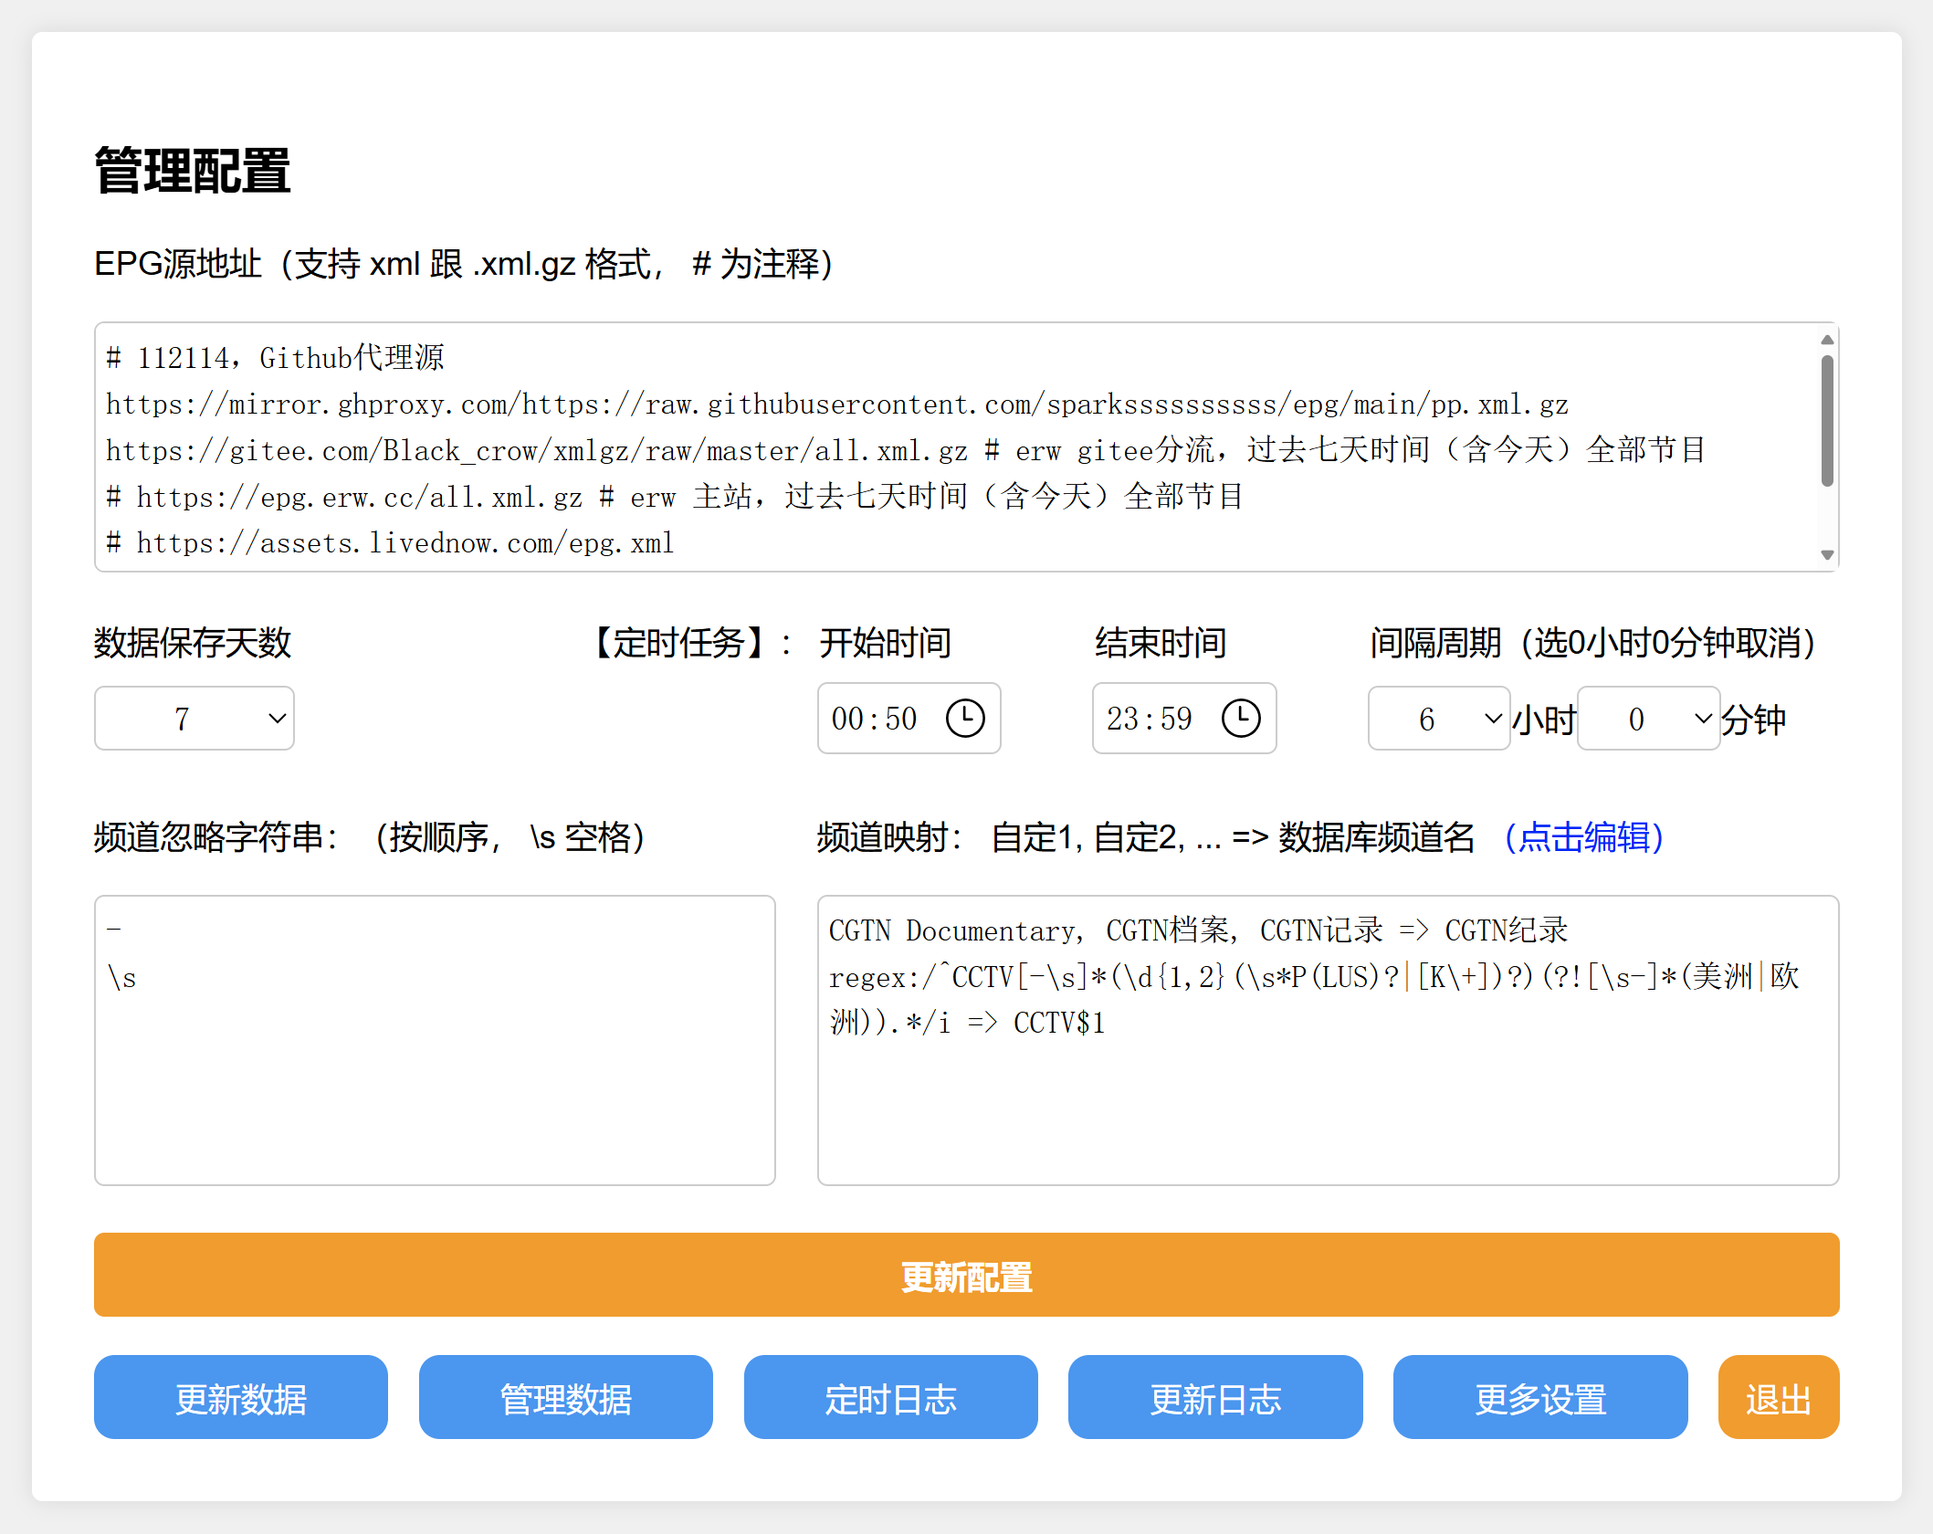
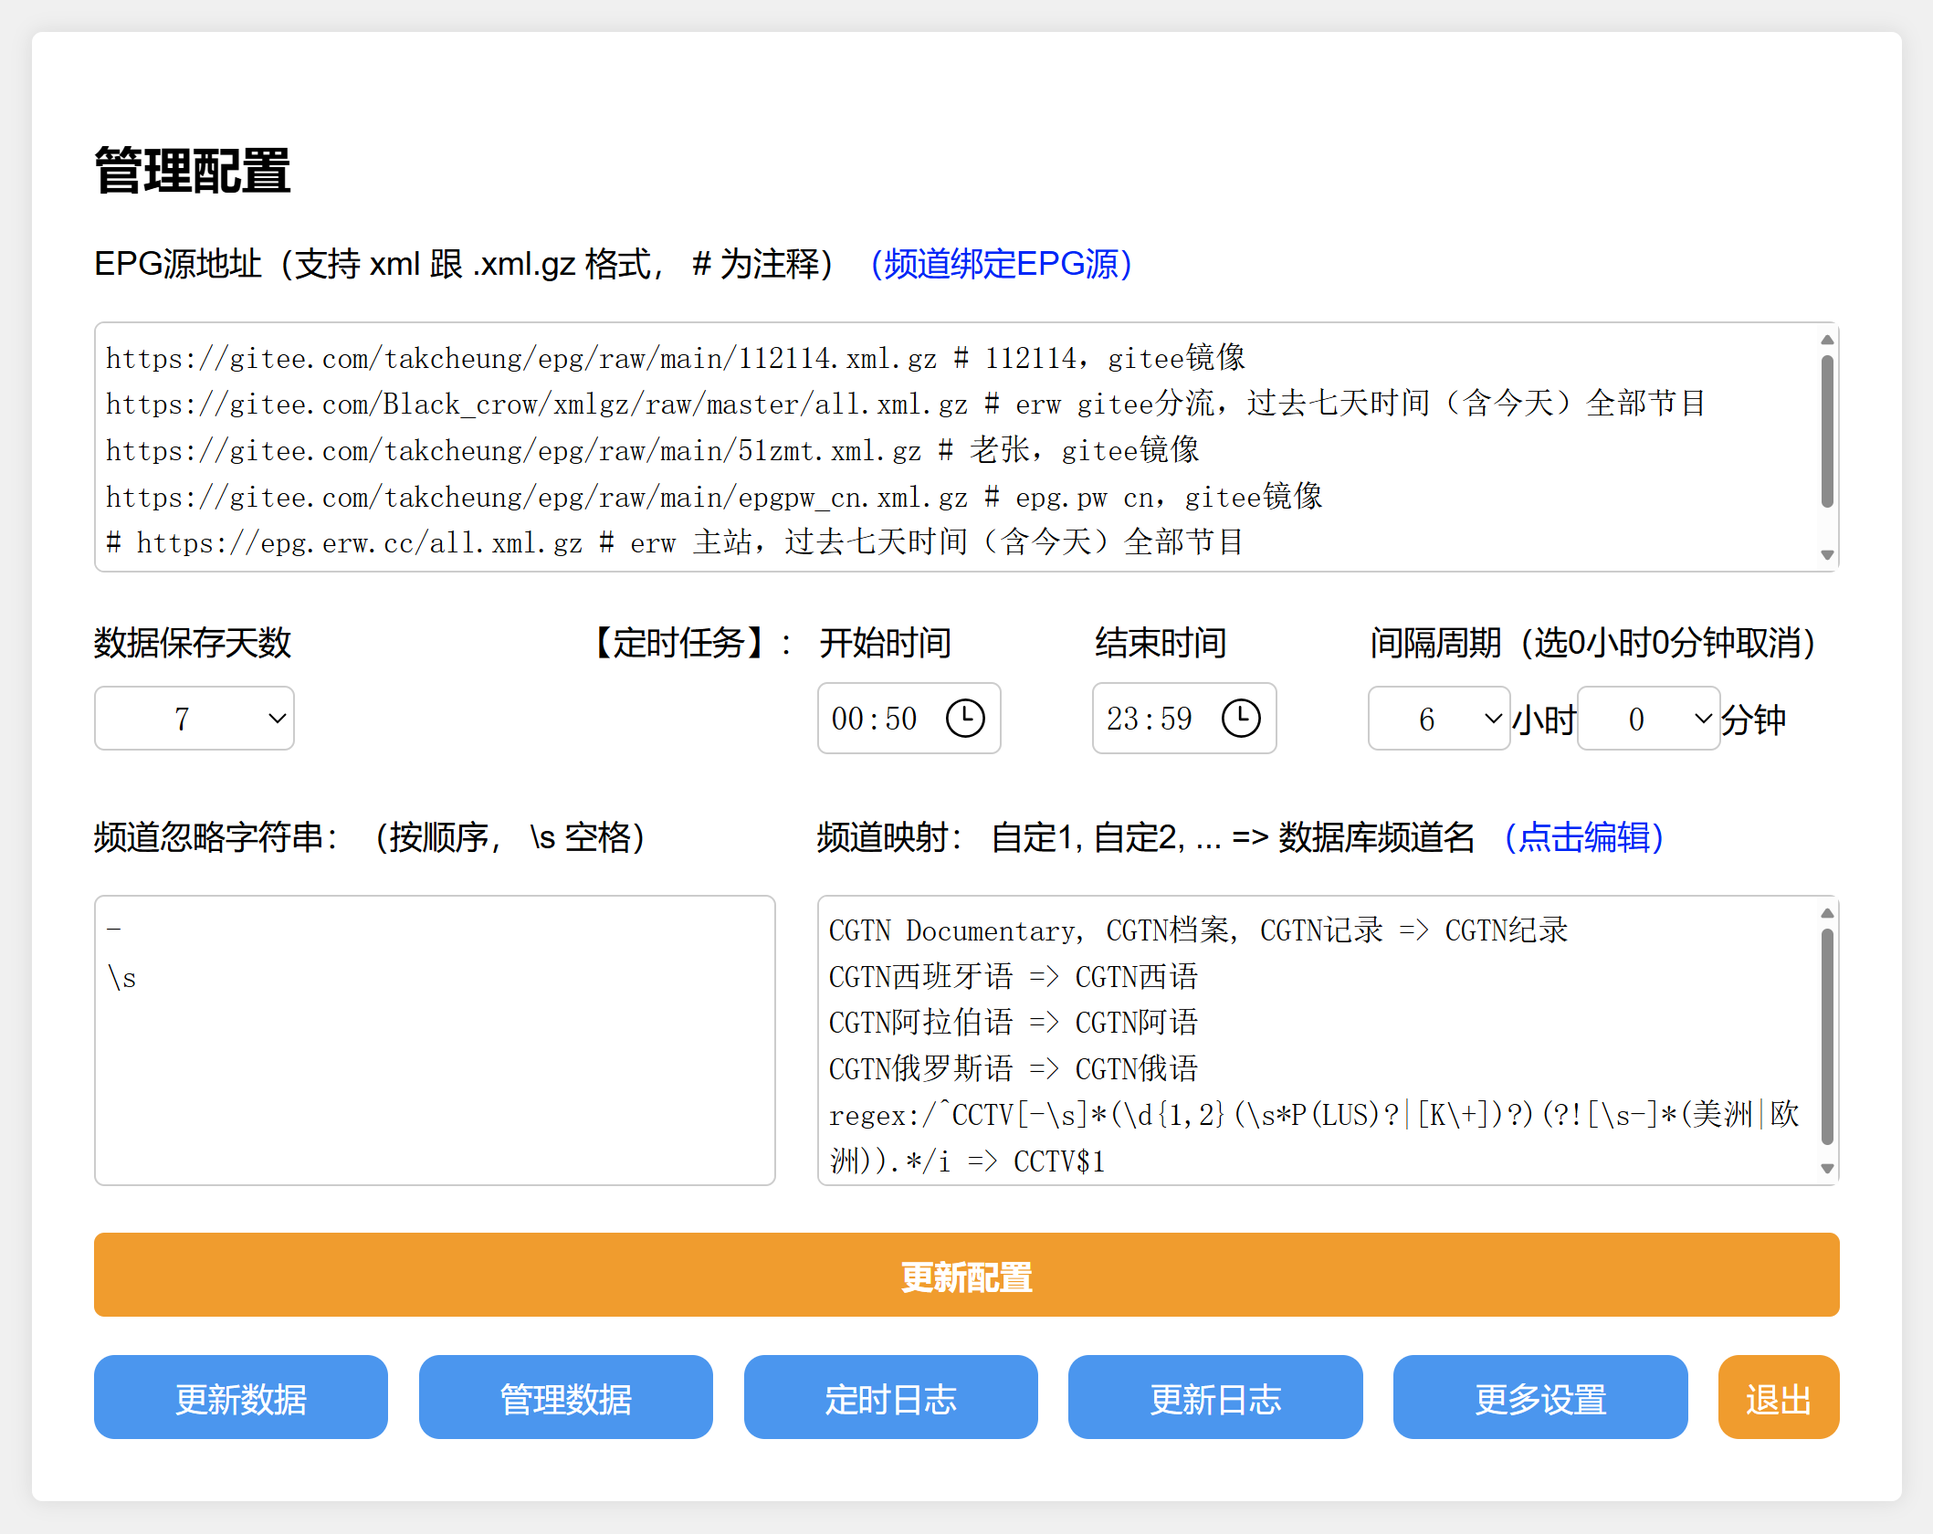
新增：频道绑定EPG源，管理页面数据预加载

diff --git a/epg/css/manage.css b/epg/css/manage.css
@@ -182,8 +182,12 @@ input[type="text"] {
     width: 200px;
     height: auto;
 }
+.channel-bind-epg-modal-content {
+    width: 600px;
+}
 .more-setting-modal-content,
 .channel-modal-content,
+.channel-bind-epg-modal-content,
 .channel-match-modal-content {
     height: 530px;
 }
@@ -208,20 +212,24 @@ input[type="text"] {
 .table-container[id="channel-table-container"] {
     height: 354px;
 }
+.table-container[id="channel-bind-epg-table-container"] {
+    height: 400px;
+}
 .table-container[id="channel-match-table-container"] {
     height: 460px;
 }
-#logTable, #channelMatchTable, #channelTable {
+#logTable, #channelMatchTable, #channelTable, #channelBindEPGTable {
     width: 100%;
     border-collapse: separate;
     border-spacing: 0 5px; /* 调整行之间的垂直间距 */
     table-layout: fixed; /* 固定表格布局，防止内容超出 */
 }
-#channelMatchTable, #channelTable {
+#channelMatchTable, #channelTable, #channelBindEPGTable {
     border-spacing: 0 0px; /* 调整行之间的垂直间距 */
 }
 #logTable th, #logTable td,
 #channelTable th, #channelTable td,
+#channelBindEPGTable th, #channelBindEPGTable td,
 #channelMatchTable th, #channelMatchTable td {
     border: 1px solid #ccc;
     padding: 5px;
@@ -229,7 +237,8 @@ input[type="text"] {
     word-break: break-all; /* 允许单词内断行 */
 }
 #channelTable th, #channelTable td,
-#channelMatchTable th, #channelMatchTable td {
+#channelMatchTable th, #channelMatchTable td,
+#channelBindEPGTable th {
     text-align: center;
 }
 #logTable th:nth-child(1), 

diff --git a/epg/manage.php b/epg/manage.php
@@ -174,6 +174,13 @@ if ($_SERVER['REQUEST_METHOD'] == 'POST' && isset($_POST['update'])) {
         }
     }
 
+    // 处理频道绑定 EPG 数据
+    $channel_bind_epg = isset($_POST['channel_bind_epg']) ? 
+        array_filter(
+            array_column(json_decode($_POST['channel_bind_epg'], true), 'channels', 'epg_src'), 
+            fn($channels) => !empty($channels)
+        ) : [];
+
     // 获取旧的配置
     $oldConfig = $Config;
 
@@ -189,6 +196,7 @@ if ($_SERVER['REQUEST_METHOD'] == 'POST' && isset($_POST['update'])) {
         'end_time' => $end_time,
         'interval_time' => $interval_time,
         'manage_password' => $Config['manage_password'], // 保留密码
+        'channel_bind_epg' => $channel_bind_epg,
         'channel_replacements' => $channel_replacements,
         'channel_mappings' => $channel_mappings
     ];
@@ -281,6 +289,54 @@ try {
                 'channels' => $mappedChannels,
                 'count' => count($mappedChannels)
             ];
+        }
+        
+        // 返回频道绑定 EPG 数据
+        elseif (isset($_GET['get_channel_bind_epg'])) {
+            // 从数据库中获取频道
+            $channels = $db->query("SELECT DISTINCT UPPER(channel) FROM epg_data ORDER BY UPPER(channel) ASC")->fetchAll(PDO::FETCH_COLUMN);
+            
+            $channelBindEpg = $Config['channel_bind_epg'] ?? [];
+            // 去除键中以【已停用】开头的部分
+            $channelBindEpg = array_map(
+                function($epgSrc) {
+                    // 去掉键开头的【已停用】
+                    return preg_replace('/^【已停用】/', '', $epgSrc);
+                },
+                array_flip($channelBindEpg)
+            );
+            $channelBindEpg = array_flip($channelBindEpg);            
+
+            $xmlUrls = $Config['xml_urls'];
+
+            // 过滤 xml_urls，同时重置下标
+            $filteredUrls = array_values(array_map(function($url) {
+                $url = trim($url);
+                // 如果以 # 开头，去掉第二个 # 后的内容；否则，去掉第一个 # 后的内容，并修剪空格
+                $url = (strpos($url, '#') === 0) 
+                    ? preg_replace('/^([^#]*#[^#]*)#.*$/', '$1', $url) 
+                    : preg_replace('/#.*$/', '', $url);
+                return trim($url); // 去掉多余空格
+            }, $xmlUrls));
+
+            // 将 $filteredUrls 分为正常和已停用的 URL
+            $dbResponse = array_merge(
+                array_map(function($epgSrc) use ($channelBindEpg) {
+                    $cleanEpgSrc = trim(preg_replace('/^\s*#\s*/', '', $epgSrc));
+                    return [
+                        'epg_src' => $cleanEpgSrc,
+                        'channels' => $channelBindEpg[$cleanEpgSrc] ?? ''
+                    ];
+                }, array_filter($filteredUrls, fn($epgSrc) => strpos(trim($epgSrc), '#') !== 0)),
+
+                array_map(function($epgSrc) use ($channelBindEpg) {
+                    $cleanEpgSrc = trim(preg_replace('/^\s*#\s*/', '', $epgSrc));
+                    return [
+                        'epg_src' => '【已停用】' . ltrim($cleanEpgSrc, '#'),
+                        'channels' => $channelBindEpg[$cleanEpgSrc] ?? ''
+                    ];
+                }, array_filter($filteredUrls, fn($epgSrc) => strpos(trim($epgSrc), '#') === 0))
+            );
         }
 
         // 返回频道匹配数据
@@ -396,7 +452,7 @@ try {
     }
 
     // 导出配置
-    elseif ($requestMethod === 'POST' && isset($_POST['action']) && empty($_FILES['importFile']['tmp_name'])) {
+    elseif (isset($_POST['action']) && empty($_FILES['importFile']['tmp_name'])) {
         $zip = new ZipArchive();
         $zipFileName = 't.gz';
 
@@ -451,7 +507,7 @@ if ($_SERVER['REQUEST_METHOD'] == 'GET' && isset($_GET['url'])) {
     <h2>管理配置</h2>
     <form method="POST" id="settingsForm">
 
-        <label for="xml_urls">EPG源地址（支持 xml 跟 .xml.gz 格式， # 为注释）</label><br><br>
+        <label for="xml_urls">EPG源地址（支持 xml 跟 .xml.gz 格式， # 为注释）</label><span id="channelbind" onclick="showModal('channelbindepg')" style="color: blue; cursor: pointer;">（频道绑定EPG源）</span><br><br>
         <textarea placeholder="一行一个，地址前面加 # 可以临时停用，后面加 # 可以备注。快捷键： Ctrl+/  。" id="xml_urls" name="xml_urls" style="height: 122px;"><?php echo implode("\n", array_map('trim', $Config['xml_urls'])); ?></textarea><br><br>
 
         <div class="form-row">
@@ -585,6 +641,29 @@ if ($_SERVER['REQUEST_METHOD'] == 'GET' && isset($_GET['url'])) {
     </div>
 </div>
 
+<!-- 频道绑定EPG模态框 -->
+<div id="channelBindEPGModal" class="modal">
+    <div class="modal-content channel-bind-epg-modal-content">
+        <span class="close">&times;</span>
+        <h2>频道绑定EPG源</h2>
+        <div class="table-container" id="channel-bind-epg-table-container">
+            <table id="channelBindEPGTable">
+                <thead style="position: sticky; top: 0; background-color: white;">
+                    <tr>
+                        <th>EPG源地址</th>
+                        <th>绑定频道（可 , 分隔）</th>
+                    </tr>
+                </thead>
+                <tbody>
+                    <!-- 数据由 JavaScript 动态生成 -->
+                </tbody>
+            </table>
+        </div>
+        <br>
+        <button id="saveConfig" type="button" onclick="saveAndUpdateConfig();">保存配置</button>
+    </div>
+</div>
+
 <!-- 频道匹配结果模态框 -->
 <div id="channelMatchModal" class="modal">
     <div class="modal-content channel-match-modal-content">
@@ -651,6 +730,16 @@ if ($_SERVER['REQUEST_METHOD'] == 'GET' && isset($_GET['url'])) {
 </div>
 
 <script>
+    document.addEventListener('DOMContentLoaded', function() {
+        // 页面加载时执行，预加载数据，减少等待时间
+        showModal('channelbindepg', $popup = false); // 这一行必须有，否则保存时丢失数据
+        showModal('update', $popup = false);
+        showModal('cron', $popup = false);
+        showModal('channel', $popup = false);
+        showModal('channelmatch', $popup = false);
+        showModal('moresetting', $popup = false);
+    });
+
     // 退出登录
     function logout() {
         // 清除所有cookies
@@ -777,26 +866,30 @@ if ($_SERVER['REQUEST_METHOD'] == 'GET' && isset($_GET['url'])) {
                 modal = document.getElementById("channelModal");
                 logSpan = document.getElementsByClassName("close")[3];
                 fetchLogs('<?php echo $_SERVER['PHP_SELF']; ?>?get_channel=true', updateChannelList);
-                document.getElementById('searchInput').value = ""; // 清空搜索框
+                break;
+            case 'channelbindepg':
+                modal = document.getElementById("channelBindEPGModal");
+                logSpan = document.getElementsByClassName("close")[4];                
+                fetchLogs('<?php echo $_SERVER['PHP_SELF']; ?>?get_channel_bind_epg=true', updateChannelBindEPGList);
                 break;
             case 'channelmatch':
                 modal = document.getElementById("channelMatchModal");
-                logSpan = document.getElementsByClassName("close")[4];
+                logSpan = document.getElementsByClassName("close")[5];
                 fetchLogs('<?php echo $_SERVER['PHP_SELF']; ?>?get_channel_match=true', updateChannelMatchList);
-                if (!$popup) {
-                    return;
-                }
                 document.getElementById("moreSettingModal").style.display = "none";
                 break;
             case 'moresetting':
                 modal = document.getElementById("moreSettingModal");
-                logSpan = document.getElementsByClassName("close")[5];            
+                logSpan = document.getElementsByClassName("close")[6];
                 fetchLogs('<?php echo $_SERVER['PHP_SELF']; ?>?get_gen_list=true', updateGenList);
                 genListLoaded = true; // 数据已加载
                 break;
             default:
                 console.error('Unknown type:', type);
                 break;
+        }
+        if (!$popup) {
+            return;
         }
         modal.style.display = "block";
         logSpan.onclick = function() {
@@ -848,11 +941,42 @@ if ($_SERVER['REQUEST_METHOD'] == 'GET' && isset($_GET['url'])) {
     }
 
     function updateChannelList(channelsData) {
-        var channelTableBody = document.querySelector("#channelTable tbody");
         const channelTitle = document.getElementById('channelModalTitle');
         channelTitle.innerHTML = `频道列表<span style="font-size: 18px;">（总数：${channelsData.count}）</span>`; // 更新频道总数
         document.getElementById('channelTable').dataset.allChannels = JSON.stringify(channelsData.channels); // 将原始频道和映射后的频道数据存储到 dataset 中
         filterChannels(); // 生成数据
+    }
+
+    function updateChannelBindEPGList(channelBindEPGData) {
+        // 创建并添加隐藏字段
+        const channelBindEPGInput = document.createElement('input');
+        channelBindEPGInput.type = 'hidden';
+        channelBindEPGInput.name = 'channel_bind_epg';
+        document.getElementById('settingsForm').appendChild(channelBindEPGInput);
+
+        document.getElementById('channelBindEPGTable').dataset.allChannelBindEPG = JSON.stringify(channelBindEPGData);
+        var channelBindEPGTableBody = document.querySelector("#channelBindEPGTable tbody");
+        var allChannelBindEPG = JSON.parse(document.getElementById('channelBindEPGTable').dataset.allChannelBindEPG);
+        channelBindEPGInput.value = JSON.stringify(allChannelBindEPG);
+
+        // 清空现有表格
+        channelBindEPGTableBody.innerHTML = '';
+
+        allChannelBindEPG.forEach(channelbindepg => {
+            var row = document.createElement('tr');
+            row.innerHTML = `
+                <td>${String(channelbindepg.epg_src)}</td>
+                <td contenteditable="true">${channelbindepg.channels}</td>
+            `;
+
+            row.querySelector('td[contenteditable]').addEventListener('input', function() {
+                channelbindepg.channels = this.textContent;
+                document.getElementById('channelBindEPGTable').dataset.allChannelBindEPG = JSON.stringify(allChannelBindEPG);
+                channelBindEPGInput.value = JSON.stringify(allChannelBindEPG);
+            });
+
+            channelBindEPGTableBody.appendChild(row);
+        });
     }
 
     function updateChannelMatchList(channelMatchdata) {
@@ -897,7 +1021,7 @@ if ($_SERVER['REQUEST_METHOD'] == 'GET' && isset($_GET['url'])) {
         // 清空现有表格
         channelTableBody.innerHTML = '';
 
-        allChannels.forEach((channel, index) => {
+        allChannels.forEach(channel => {
             if (String(channel.original).toLowerCase().includes(input)) {
                 var row = document.createElement('tr');
 
@@ -906,7 +1030,7 @@ if ($_SERVER['REQUEST_METHOD'] == 'GET' && isset($_GET['url'])) {
                     <td contenteditable="true">${channel.mapped}</td>
                 `;
 
-                row.querySelector('td[contenteditable]').addEventListener('blur', function() {
+                row.querySelector('td[contenteditable]').addEventListener('input', function() {
                     channel.mapped = this.textContent;
                     document.getElementById('channelTable').dataset.allChannels = JSON.stringify(allChannels);
                 });
@@ -990,9 +1114,6 @@ if ($_SERVER['REQUEST_METHOD'] == 'GET' && isset($_GET['url'])) {
         
         // 保存到数据库
         saveAndUpdateConfig($doUpdate = false);
-
-        // 预加载频道匹配结果
-        showModal('channelmatch', $popup = false);
     }
 
     // 保存数据并更新配置

diff --git a/epg/update.php b/epg/update.php
@@ -69,7 +69,7 @@ function processData($xml_url, $db, &$log_messages, $gen_list) {
         }
         $db->beginTransaction();
         try {
-            processXmlData($xml_data, date('Y-m-d'), $db, $gen_list);
+            processXmlData($xml_url, $xml_data, date('Y-m-d'), $db, $gen_list);
             $db->commit();
             logMessage($log_messages, "【更新】 成功");
         } catch (Exception $e) {
@@ -133,6 +133,19 @@ function getGenList($db) {
         'gen_list_mapping' => $gen_list_mapping,
         'gen_list' => array_unique($cleanedChannels)
     ];
+}
+
+// 获取频道绑定 EPG 关系
+function getChannelBindEPG() {
+    global $Config;
+    $channelBindEPG = [];
+    foreach ($Config['channel_bind_epg'] ?? [] as $epg_src => $channels) {
+        $channelList = array_map('trim', explode(',', $channels));
+        foreach ($channelList as $channel) {
+            $channelBindEPG[$channel][] = $epg_src;
+        }
+    }
+    return $channelBindEPG;
 }
 
 // 从 epg_data 表生成 XML 数据并逐个频道写入 t.xml 文件
@@ -241,9 +254,10 @@ function formatTime($date, $time) {
 }
 
 // 处理 XML 数据并逐步存入数据库
-function processXmlData($xml_data, $date, $db, $gen_list) {
+function processXmlData($xml_url, $xml_data, $date, $db, $gen_list) {
     global $Config;
     global $processedRecords;
+    global $channel_bind_epg;
 
     $reader = new XMLReader();
     if (!$reader->XML($xml_data)) {
@@ -266,8 +280,17 @@ function processXmlData($xml_data, $date, $db, $gen_list) {
     $channelNamesMap = [];
     foreach ($cleanChannelNames as $channelId => $channelName) {
         $channelNameSimplified = array_shift($simplifiedChannelNames);
-        // 当 gen_list_enable 为 0 或 gen_list 为空，插入所有数据
-        if (empty($Config['gen_list_enable']) || empty($gen_list)) {
+
+        // 假如 channel_bind_epg 存在且频道在其中有记录，且不为当前 xml_url，直接跳过
+        if (!empty($channel_bind_epg) && 
+            isset($channel_bind_epg[$channelNameSimplified]) && 
+            !in_array($xml_url, $channel_bind_epg[$channelNameSimplified])
+        ) {
+            continue; // 跳过当前循环，继续处理下一个
+        }
+
+        // 当 gen_list_enable 为 0 时，插入所有数据
+        if (empty($Config['gen_list_enable'])) {
             $channelNamesMap[$channelId] = $channelNameSimplified;
             continue;
         }
@@ -398,6 +421,9 @@ deleteOldData($db, $Config['days_to_keep'], $log_messages);
 $gen_res = getGenList($db);
 $gen_list = $gen_res['gen_list'];
 $gen_list_mapping = $gen_res['gen_list_mapping'];
+
+// 获取频道绑定 EPG 关系
+$channel_bind_epg = getChannelBindEPG();
 
 // 全局变量，用于记录已处理的记录
 $processedRecords = [];
